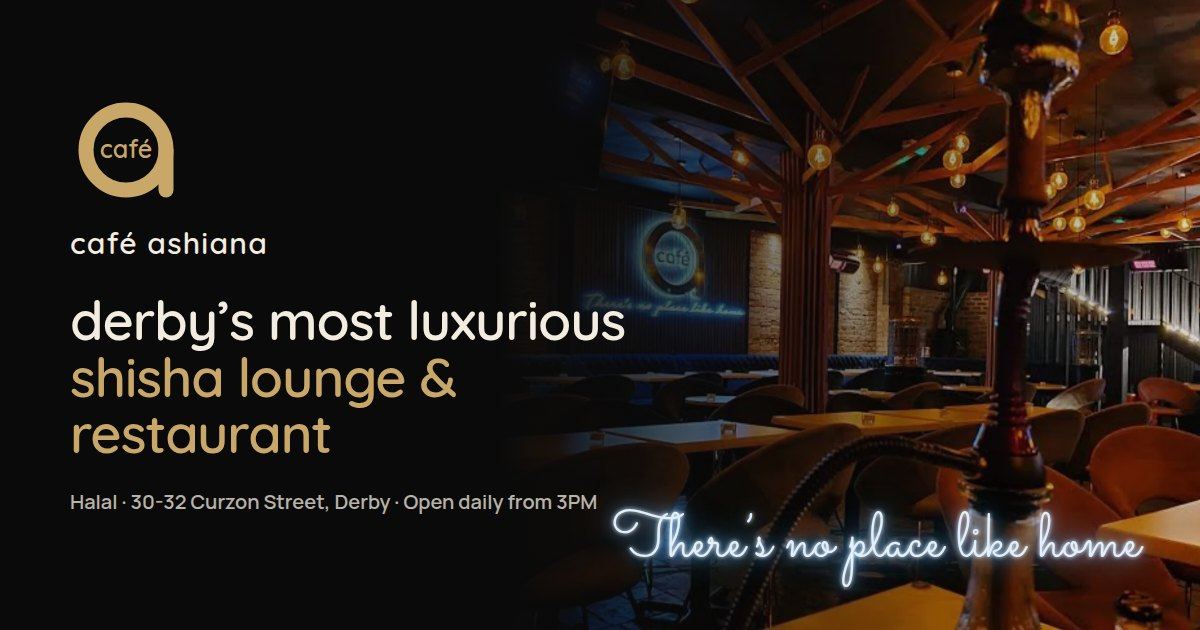
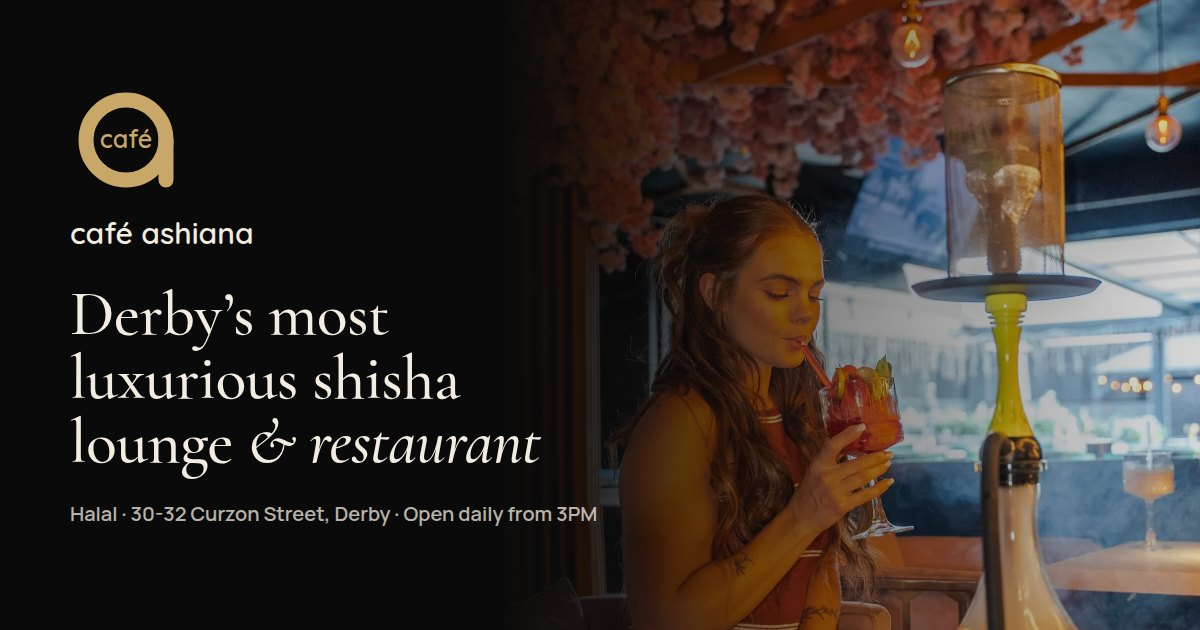
Prave fotografije u punoj rezoluciji, loyalty kartica, Prince of Persia i red velvet, nova slika za dijeljenje

diff --git a/index.html b/index.html
@@ -20,7 +20,7 @@
 <link rel="preload" href="assets/fonts/cormorant-garamond-latin-500-italic.woff2" as="font" type="font/woff2" crossorigin>
 <link rel="preload" href="assets/fonts/manrope-latin-400-normal.woff2" as="font" type="font/woff2" crossorigin>
 <link rel="preload" href="assets/fonts/manrope-latin-600-normal.woff2" as="font" type="font/woff2" crossorigin>
-<link rel="preload" href="assets/img/lounge-tree-1080.webp" as="image" imagesrcset="assets/img/lounge-tree-640.webp 640w, assets/img/lounge-tree-1080.webp 1080w" imagesizes="(min-width: 900px) 50vw, 100vw">
+<link rel="preload" href="assets/img/hero-blossom-1200.webp" as="image" imagesrcset="assets/img/hero-blossom-800.webp 800w, assets/img/hero-blossom-1200.webp 1200w, assets/img/hero-blossom-1600.webp 1600w" imagesizes="(min-width: 900px) 50vw, 100vw">
 <link rel="stylesheet" href="css/style.css">
 <script type="application/ld+json">
 {
@@ -105,7 +105,7 @@
     </div>
   </div>
   <figure class="hero-img">
-    <img src="assets/img/lounge-tree-1080.webp" srcset="assets/img/lounge-tree-640.webp 640w, assets/img/lounge-tree-1080.webp 1080w" sizes="(min-width: 900px) 50vw, 100vw" width="1080" height="950" alt="The main lounge at night: wooden beams branching like a tree, dozens of Edison bulbs, exposed brick and the blue neon café sign" fetchpriority="high">
+    <img src="assets/img/hero-blossom-1200.webp" srcset="assets/img/hero-blossom-800.webp 800w, assets/img/hero-blossom-1200.webp 1200w, assets/img/hero-blossom-1600.webp 1600w" sizes="(min-width: 900px) 50vw, 100vw" width="1200" height="1600" alt="A guest sipping a strawberry mocktail beside a shisha, under the pink blossom ceiling and warm Edison bulbs" fetchpriority="high">
   </figure>
   <dl class="hero-bar">
     <div><dt>Today</dt><dd class="status" data-status><i></i><span>Open daily from 3PM</span></dd></div>
@@ -122,8 +122,8 @@
       <p>Under a canopy of timber and Edison bulbs, with deep blue velvet booths, exposed brick and a ceiling in full blossom, Ashiana is where Derby comes to slow down. A halal kitchen, alcohol-free drinks and shisha made by hand. Upstairs, the rooftop.</p>
     </div>
     <figure class="intro-img">
-      <img src="assets/img/blossom-ceiling-517.webp" width="517" height="355" loading="lazy" decoding="async" alt="Pink blossom ceiling with hanging bulbs above the neon café sign and the words There's no place like home">
-      <figcaption>The blossom room</figcaption>
+      <img src="assets/img/lounge-tree-1080.webp" srcset="assets/img/lounge-tree-640.webp 640w, assets/img/lounge-tree-1080.webp 1080w" sizes="(min-width: 900px) 42vw, 100vw" width="1080" height="950" loading="lazy" decoding="async" alt="The main lounge: wooden beams branching like a tree, Edison bulbs, exposed brick and the blue neon café sign">
+      <figcaption>The canopy room</figcaption>
     </figure>
   </div>
   <figure class="wrap quote" data-quote hidden></figure>
@@ -141,6 +141,11 @@
         <p class="legend"><span><b aria-hidden="true">★</b> Popular</span><span><b aria-hidden="true">V</b> Vegetarian</span><span><b aria-hidden="true">S</b> Spicy</span></p>
       </div>
     </header>
+    <ul class="menu-pics" aria-label="From the kitchen and bar" tabindex="0">
+      <li><img src="assets/img/red-velvet-640.webp" srcset="assets/img/red-velvet-640.webp 640w, assets/img/red-velvet-1080.webp 1080w" sizes="(min-width: 900px) 30vw, 72vw" width="640" height="521" loading="lazy" decoding="async" alt="A tall slice of red velvet cake with cream cheese layers and raspberry"><span>Red velvet cake</span></li>
+      <li><img src="assets/img/mocktail-strawberry-640.webp" srcset="assets/img/mocktail-strawberry-640.webp 640w, assets/img/mocktail-strawberry-1080.webp 1080w" sizes="(min-width: 900px) 30vw, 72vw" width="640" height="853" loading="lazy" decoding="async" alt="A frozen strawberry mocktail with lime, mint and fresh berries"><span>Frozen mocktails</span></li>
+      <li><img src="assets/img/mocktails-duo-640.webp" srcset="assets/img/mocktails-duo-640.webp 640w, assets/img/mocktails-duo-1080.webp 1080w" sizes="(min-width: 900px) 30vw, 72vw" width="640" height="800" loading="lazy" decoding="async" alt="A blue and a berry mocktail with lime, held up against a white wall"><span>Blue &amp; berry</span></li>
+    </ul>
     <div class="menu-grid">
       <nav class="menu-index" aria-label="Menu sections" data-index></nav>
       <div class="menu-main">
@@ -163,11 +168,13 @@
 </section>
 
 <section class="shisha" id="shisha" aria-labelledby="shisha-h">
+  <div class="wrap"><figure class="coals"><img src="assets/img/coals-1407.webp" width="1407" height="603" loading="lazy" decoding="async" alt="Glowing shisha coals in close-up"></figure></div>
   <div class="wrap shisha-grid">
     <div class="shisha-txt">
       <p class="eyebrow eyebrow-blue">Shisha</p>
       <h2 id="shisha-h">Fresh coals, <em>slow evenings</em></h2>
       <p>Every head is packed by hand by our shisha team. Settle into velvet, choose a flavour and let the night take its time.</p>
+<figure class="terrace"><img src="assets/img/prince-of-persia-640.webp" width="640" height="800" loading="lazy" decoding="async" alt="Café Ashiana poster: New summer favourite, Prince of Persia. A shisha on a marble table with the words This flavour really hits the spot"><figcaption>Prince of Persia, our new summer favourite</figcaption></figure>
       <p class="neon">There’s no place like home</p>
       <div class="shisha-legal">
         <p><b>18+</b> Shisha is served to adults only. ID may be requested.</p>
@@ -190,12 +197,12 @@
       <p>A canopy of timber and Edison bulbs, deep blue velvet, exposed brick and a ceiling in full blossom. Click any photo to see it larger.</p>
     </header>
     <div class="mosaic" data-gallery>
+      <figure class="m m-tall"><button type="button" aria-label="View larger: The terrace"><img src="assets/img/terrace-shisha-640.webp" data-full="assets/img/terrace-shisha-1080.webp" width="640" height="800" loading="lazy" decoding="async" alt="A shisha on the terrace at golden hour, with string lights behind"></button><figcaption>The terrace</figcaption></figure>
+      <figure class="m m-tall"><button type="button" aria-label="View larger: Mocktails"><img src="assets/img/mocktails-duo-640.webp" data-full="assets/img/mocktails-duo-1080.webp" width="640" height="800" loading="lazy" decoding="async" alt="A blue and a berry mocktail with lime and paper umbrellas"></button><figcaption>Mocktails</figcaption></figure>
+      <figure class="m m-tall"><button type="button" aria-label="View larger: Behind the bar"><img src="assets/img/crew-barman-348.webp" width="348" height="398" loading="lazy" decoding="async" alt="Bartender in a black waistcoat, white shirt and tie, garnishing a drink"></button><figcaption>Behind the bar</figcaption></figure>
       <figure class="m m-land"><button type="button" aria-label="View larger: Curzon Street after dark"><img src="assets/img/facade-night-517.webp" width="517" height="384" loading="lazy" decoding="async" alt="Café Ashiana at night with warm light in every window"></button><figcaption>Curzon Street after dark</figcaption></figure>
       <figure class="m m-land"><button type="button" aria-label="View larger: Friday night"><img src="assets/img/lounge-crowd-522.webp" width="522" height="267" loading="lazy" decoding="async" alt="A full lounge on a Friday night under the neon ROOFTOP sign"></button><figcaption>Friday night</figcaption></figure>
       <figure class="m m-land"><button type="button" aria-label="View larger: The crew"><img src="assets/img/crew-smile-348.webp" width="348" height="313" loading="lazy" decoding="async" alt="A member of the team in a flat cap and grey waistcoat, laughing behind the bar"></button><figcaption>The crew</figcaption></figure>
-      <figure class="m m-sq"><button type="button" aria-label="View larger: Steak and fries"><img src="assets/img/food-steak-349.webp" width="349" height="398" loading="lazy" decoding="async" alt="Sliced steak with fries in a gold cup, salad and peppercorn sauce"></button><figcaption>Steak &amp; fries</figcaption></figure>
-      <figure class="m m-sq"><button type="button" aria-label="View larger: From the grill"><img src="assets/img/food-chicken-349.webp" width="349" height="313" loading="lazy" decoding="async" alt="Two grilled chicken platters with fries, salad and mocktails on a marble table"></button><figcaption>From the grill</figcaption></figure>
-      <figure class="m m-sq"><button type="button" aria-label="View larger: Mocktails"><img src="assets/img/drink-mocktail-347.webp" width="347" height="313" loading="lazy" decoding="async" alt="A guest holding an orange mocktail in a coupe glass"></button><figcaption>Mocktails</figcaption></figure>
     </div>
   </div>
 </section>
@@ -203,13 +210,25 @@
 <section class="crew" aria-labelledby="crew-h">
   <div class="wrap crew-grid">
     <figure class="crew-img">
-      <img src="assets/img/crew-barman-348.webp" width="348" height="398" loading="lazy" decoding="async" alt="Bartender in a black waistcoat, white shirt and tie, garnishing a drink">
+      <img src="assets/img/shisha-master-640.webp" srcset="assets/img/shisha-master-640.webp 640w, assets/img/shisha-master-1080.webp 1080w" sizes="(min-width: 900px) 38vw, 100vw" width="640" height="800" loading="lazy" decoding="async" alt="A shisha master in a flat cap and herringbone waistcoat, laughing as he lifts the wind cover off a fresh shisha">
     </figure>
     <div class="crew-txt">
       <p class="eyebrow">The crew</p>
       <h2 id="crew-h">Dressed for <em>the occasion</em></h2>
       <p>Waistcoats, flat caps and steady hands. Our shisha masters and bartenders look after you from the first coal to the last cup of chai.</p>
       <a class="link" href="https://www.instagram.com/cafeashiana/" target="_blank" rel="noopener">Follow @cafeashiana<svg aria-hidden="true"><use href="#i-arrow"/></svg></a>
+    </div>
+  </div>
+</section>
+
+<section class="loyal" aria-labelledby="loyal-h">
+  <div class="wrap loyal-grid">
+    <figure class="loyal-img"><img src="assets/img/loyalty-640.webp" srcset="assets/img/loyalty-640.webp 640w, assets/img/loyalty-1080.webp 1080w" sizes="(min-width: 900px) 34vw, 100vw" width="640" height="800" loading="lazy" decoding="async" alt="Café Ashiana poster: Our Loyalty Card is now digital. Your rewards just got an upgrade. rewards.cafeashiana.com"></figure>
+    <div class="loyal-txt">
+      <p class="eyebrow">Rewards</p>
+      <h2 id="loyal-h">Our loyalty card is <em>now digital</em></h2>
+      <p>Your rewards just got an upgrade. Sign up online and keep your Ashiana card on your phone.</p>
+      <a class="btn btn-gold" href="https://rewards.cafeashiana.com" target="_blank" rel="noopener">Get your card</a>
     </div>
   </div>
 </section>

diff --git a/css/style.css b/css/style.css
@@ -108,7 +108,7 @@ section { position: relative; }
 .intro-txt { grid-column: 1 / 7; }
 .intro-txt h2 { margin-bottom: var(--s6); }
 .intro-txt p:last-child { max-width: 34em; color: var(--mute); }
-.intro-img { grid-column: 8 / 13; justify-self: end; max-width: 517px; width: 100%; }
+.intro-img { grid-column: 7 / 13; width: 100%; }
 .intro-img img { width: 100%; aspect-ratio: 3 / 2; object-fit: cover; border-radius: var(--radius); }
 figcaption { margin-top: var(--s3); font: italic 500 17px/1.3 var(--serif); color: var(--faint); }
 .quote { margin-top: var(--s10); padding-top: var(--s8); border-top: 1px solid var(--line); display: grid; grid-template-columns: repeat(12, 1fr); gap: var(--s5); }
@@ -156,8 +156,18 @@ figcaption { margin-top: var(--s3); font: italic 500 17px/1.3 var(--serif); colo
 .menu-foot p { color: var(--mute); font-size: 15px; }
 .is-hidden { display: none !important; }
 
+/* fotografije iznad menija */
+.menu-pics { list-style: none; margin: var(--s7) 0 0; padding: 0; display: grid; grid-template-columns: repeat(3, 1fr); gap: var(--s5); }
+.menu-pics img { width: 100%; aspect-ratio: 4 / 5; object-fit: cover; border-radius: var(--radius); filter: saturate(0.95) contrast(1.03); }
+.menu-pics span { display: block; margin-top: var(--s3); font: italic 500 17px/1.3 var(--serif); color: var(--faint); }
+
 /* ---------- nargila: plavi somot ---------- */
 .shisha { padding: var(--section) 0; background: repeating-linear-gradient(90deg, rgba(255, 255, 255, 0.016) 0 2px, transparent 2px 10px), linear-gradient(165deg, var(--velvet), var(--velvet-2)); }
+.coals { margin-bottom: var(--s9); }
+.coals img { width: 100%; aspect-ratio: 21 / 9; object-fit: cover; border-radius: var(--radius); }
+.terrace { margin-top: var(--s7); max-width: 420px; }
+.terrace img { width: 100%; aspect-ratio: 4 / 5; object-fit: cover; border-radius: var(--radius); }
+.terrace figcaption { color: rgba(243, 236, 224, 0.62); }
 .shisha-grid { display: grid; grid-template-columns: repeat(12, 1fr); gap: var(--s5); align-items: start; }
 .shisha-txt { grid-column: 1 / 6; }
 .shisha-txt h2 { margin-bottom: var(--s6); }
@@ -186,16 +196,26 @@ figcaption { margin-top: var(--s3); font: italic 500 17px/1.3 var(--serif); colo
 .m img { width: 100%; object-fit: cover; filter: saturate(0.9) contrast(1.04); transition: filter var(--dur); }
 .m button:hover img { filter: saturate(1) contrast(1.06) brightness(1.06); }
 .m-land img { aspect-ratio: 3 / 2; }
+.m-tall img { aspect-ratio: 4 / 5; }
 .m-sq img { aspect-ratio: 1 / 1; }
 
 /* ---------- ekipa ---------- */
 .crew { background: var(--warm); padding: var(--section) 0; }
 .crew-grid { display: grid; grid-template-columns: repeat(12, 1fr); gap: var(--s5); align-items: center; }
-.crew-img { grid-column: 2 / 6; max-width: 348px; width: 100%; justify-self: center; }
+.crew-img { grid-column: 1 / 6; width: 100%; }
 .crew-img img { width: 100%; aspect-ratio: 4 / 5; object-fit: cover; border-radius: var(--radius); }
 .crew-txt { grid-column: 7 / 12; }
 .crew-txt h2 { margin-bottom: var(--s6); }
 .crew-txt p:not(.eyebrow) { color: var(--mute); margin-bottom: var(--s6); max-width: 30em; }
+
+/* ---------- loyalty kartica ---------- */
+.loyal { background: var(--velvet-2); padding: var(--section) 0; }
+.loyal-grid { display: grid; grid-template-columns: repeat(12, 1fr); gap: var(--s5); align-items: center; }
+.loyal-img { grid-column: 2 / 6; }
+.loyal-img img { width: 100%; border-radius: var(--radius); }
+.loyal-txt { grid-column: 7 / 12; }
+.loyal-txt h2 { margin-bottom: var(--s6); }
+.loyal-txt p:not(.eyebrow) { color: rgba(243, 236, 224, 0.78); max-width: 28em; margin-bottom: var(--s6); }
 
 /* ---------- posjeta ---------- */
 .visit { padding: var(--section) 0; }
@@ -293,7 +313,7 @@ figcaption { margin-top: var(--s3); font: italic 500 17px/1.3 var(--serif); colo
   .hero-img::after { background: linear-gradient(0deg, var(--black) 0%, rgba(10, 10, 10, 0) 40%); }
   .hero-txt { grid-row: 2; padding: var(--s5) var(--gutter) var(--s7); max-width: none; }
   .hero-bar { grid-row: 3; padding: var(--s6) var(--gutter) var(--s7); max-width: none; }
-  .intro-txt, .intro-img, .menu-head > div:first-child, .menu-tools, .shisha-txt, .flav-card, .crew-img, .crew-txt, .faq-grid h2, .faq-list { grid-column: 1 / -1; }
+  .loyal-img, .loyal-txt, .intro-txt, .intro-img, .menu-head > div:first-child, .menu-tools, .shisha-txt, .flav-card, .crew-img, .crew-txt, .faq-grid h2, .faq-list { grid-column: 1 / -1; }
   .intro-img { justify-self: start; margin-top: var(--s7); }
   .menu-tools { justify-self: start; text-align: left; margin-top: var(--s5); }
   .legend { justify-content: flex-start; }
@@ -305,7 +325,13 @@ figcaption { margin-top: var(--s3); font: italic 500 17px/1.3 var(--serif); colo
   .flav-card { margin-top: var(--s7); padding: var(--s6) var(--s5); }
   .neon { margin: var(--s7) 0; }
   .mosaic { grid-template-columns: 1fr 1fr; }
-  .m-land img, .m-sq img { aspect-ratio: 1 / 1; }
+  .m-land img, .m-sq img, .m-tall img { aspect-ratio: 1 / 1; }
+  .menu-pics { grid-template-columns: none; grid-auto-flow: column; grid-auto-columns: 72%; overflow-x: auto; scroll-snap-type: x mandatory; scrollbar-width: none; margin-right: calc(-1 * var(--gutter)); padding-right: var(--gutter); }
+  .menu-pics::-webkit-scrollbar { display: none; }
+  .menu-pics li { scroll-snap-align: start; }
+  .loyal-img { max-width: 420px; margin-bottom: var(--s7); }
+  .coals { margin-bottom: var(--s8); }
+  .coals img { aspect-ratio: 16 / 9; }
   .crew-img { justify-self: start; margin-bottom: var(--s7); }
   .facade, .visit-cols { grid-column: 1 / -1; }
   .facade { position: relative; top: auto; }

diff --git a/js/app.js b/js/app.js
@@ -85,7 +85,7 @@
   noneEl.addEventListener('click', (e) => { if (e.target.closest('[data-clear]')) { input.value = ''; filter(); input.focus(); } });
 
   /* ---------- okusi nargile ---------- */
-  $('[data-flavours]').innerHTML = FLAV.map((f) => '<li class="flav"><div><b>' + esc(f.name) + '</b><span>' + esc(f.note) + '</span></div>' + (f.fav ? '<em>Guest favourite</em>' : '') + '</li>').join('');
+  $('[data-flavours]').innerHTML = FLAV.map((f) => '<li class="flav"><div><b>' + esc(f.name) + '</b><span>' + esc(f.note) + '</span></div>' + (f.fav ? '<em>' + esc(f.tag || 'Guest favourite') + '</em>' : '') + '</li>').join('');
 
   /* ---------- recenzija i pitanja (samo pravi podaci) ---------- */
   const qEl = $('[data-quote]');
@@ -128,7 +128,7 @@
   /* ---------- uvećanje fotografija ---------- */
   const lb = $('[data-lb]'), lbImg = $('[data-lb-img]'), lbCap = $('[data-lb-cap]');
   const shots = $$('[data-gallery] .m'); let idx = 0, lastFocus = null;
-  const show = (i) => { idx = (i + shots.length) % shots.length; const im = $('img', shots[idx]); lbImg.src = im.currentSrc || im.src; lbImg.alt = im.alt; lbImg.width = im.naturalWidth || im.width; lbCap.textContent = $('figcaption', shots[idx]).textContent; };
+  const show = (i) => { idx = (i + shots.length) % shots.length; const im = $('img', shots[idx]); lbImg.src = im.dataset.full || im.currentSrc || im.src; lbImg.alt = im.alt; lbImg.removeAttribute('width'); lbCap.textContent = $('figcaption', shots[idx]).textContent; };
   const open = (i) => { lastFocus = document.activeElement; show(i); lb.hidden = false; lock(true); $('[data-lb-close]').focus(); };
   const close = () => { lb.hidden = true; lock(false); if (lastFocus) lastFocus.focus(); };
   shots.forEach((m, i) => $('button', m).addEventListener('click', () => open(i)));

diff --git a/data/menu.js b/data/menu.js
@@ -32,6 +32,7 @@ window.ASHIANA_MENU = [
   {
     id: 'desserts', name: 'Desserts & Waffles', note: 'Something sweet to finish.',
     items: [
+      { name: 'Red Velvet Cake', desc: 'Layers of red velvet sponge and cream cheese frosting.', price: null, tags: ['popular'], PRIVREMENO: true },
       { name: 'Oreo Waffle', desc: 'Warm waffle with Oreo crumble and chocolate sauce.', price: null, tags: ['popular'], PRIVREMENO: true }
     ]
   },
@@ -67,8 +68,9 @@ window.ASHIANA_MENU = [
 ];
 
 // okusi nargile za dio "Shisha", kao vinska karta: naziv i kratka nota okusa.
-// Frozen Apple je potvrđen kao omiljeni kod gostiju; ostali okusi i opisi su PRIVREMENO dok vlasnik ne pošalje listu.
+// Prince of Persia je "New summer favourite" sa njihove objave, Frozen Apple je potvrđen kao omiljeni kod gostiju; ostali okusi i opisi su PRIVREMENO dok vlasnik ne pošalje listu.
 window.ASHIANA_SHISHA = [
+  { name: 'Prince of Persia', note: '“This flavour really hits the spot”', fav: true, tag: 'New summer favourite' },
   { name: 'Frozen Apple', note: 'Crisp green apple, icy finish', fav: true },
   { name: 'Double Apple', note: 'Sweet red apple with a hint of aniseed', PRIVREMENO: true },
   { name: 'Grape & Mint', note: 'Dark grape, cool mint', PRIVREMENO: true },

diff --git a/README.md b/README.md
@@ -18,11 +18,13 @@ Provjereno (upisano):
 - [x] cijene sa Uber Eatsa: Dynamite Shrimp £7.95, Nachos £7.95, Masala Fries £5.45, Grilled Halloumi £4.95
 - [x] jela i pića koja se pominju na javnim stranicama (bez cijena): steak i pomfrit, grilana piletina, chicken burger, Oreo waffle, Desi chai, cappuccino, arapski čaj od mente, mojito bez alkohola; nargila Frozen Apple (gosti je hvale)
 - [x] recenzija sa Tripadvisora: "A great vibe, decor is amazing."
+- [x] sa njihovih objava: loyalty kartica je digitalna (rewards.cafeashiana.com), novi okus nargile Prince of Persia ("New summer favourite", "This flavour really hits the spot"), red velvet torta, frozen i obični mocktaili, terasa
+- [x] fotografije u punoj rezoluciji sa njihovih objava: gošća pod cvjetnim plafonom, majstor za nargilu, nargila na terasi, žar, mocktaili, red velvet torta, loyalty i Prince of Persia poster
 
 ### Od vlasnika treba
 - [ ] **puni meni sa cijenama** (sa Instagram highlighta "Food Menu" ili od vlasnika); sad većina stavki ima "ask us" umjesto cijene, a opisi jela su okvirni
 - [ ] **okusi nargile i cijene** (classic i premium); sad je potvrđen samo Frozen Apple, ostali okusi i opisi okusa su okvirni
-- [ ] **fotografije** u dobroj rezoluciji (fasada noću, sala sa sijalicama, neon, plafon sa cvjetovima, rooftop, ekipa, hrana) i **dozvola** da se koriste; sadašnje su isječci sa javnih stranica (Tripadvisor, Facebook, Instagram), samo za demo
+- [ ] **dozvola za fotografije** (nove su sa njihovih objava, a starije sa javnih stranica su manje rezolucije: fasada noću, puna sala, ekipa za šankom); ako imaju fotografije sale i rooftopa u punoj veličini, zamijeniti njih
 - [ ] gdje se puši nargila (terasa, rooftop) i radno vrijeme rooftopa, sezona
 - [ ] tačan link Facebook stranice (sad vodi na pretragu "Cafe Ashiana Derby", u `data/site.js`)
 - [ ] email, ako žele da ga prikažemo
@@ -50,15 +52,19 @@ v2 je redizajn sa fokusom na dizajn, ne na efekte: tamno, toplo i mirno, kao lok
   - neon rukopis (Sacramento) samo jednom, u dijelu Shisha.
 - **Zlatna samo** za logo, glavno dugme, cijene i tanke linije. Uz crnu ide topla tamna (`#14110d`) i plavi somot u dijelu Shisha.
 - **Prvi ekran:** naslov lijevo, fotografija sale desno (nikad šira od svoje rezolucije), traka sa tri podatka: današnji status (živi, London), adresa, halal.
-- **Uvod:** tekst o lokalu, fotografija plafona sa cvjetovima i veliki citat gosta sa Tripadvisora.
+- **Prvi ekran** ima fotografiju gošće pod cvjetnim plafonom sa nargilom (njihova fotografija u punoj rezoluciji).
+- **Uvod:** tekst o lokalu, fotografija sale sa krošnjom i veliki citat gosta sa Tripadvisora.
+- **Iznad menija** tri fotografije: red velvet torta, frozen mocktail, plavi i bobičasti mocktail.
 - **Meni kao u restoranu:**
   - sve kategorije odjednom, sa indeksom sa strane (na mobitelu traka koja se lijepi);
   - pretraga na ikonicu;
   - oznake ★ Popular, V Vegetarian, S Spicy.
   - Stavke bez potvrđene cijene nemaju cijenu; na vrhu piše "Prices on request for items without a price".
-- **Shisha:** lista okusa kao vinska karta (Frozen Apple istaknut), 18+ i upozorenje o nikotinu, statičan neon.
+- **Shisha:** traka sa žarom, poster Prince of Persia, lista okusa kao vinska karta (Prince of Persia i Frozen Apple istaknuti), 18+ i upozorenje o nikotinu, statičan neon.
+- **Rewards:** njihova digitalna loyalty kartica sa dugmetom na rewards.cafeashiana.com.
 - **The lounge:** naslov lijevo, mreža fotografija desno (3:2 i 1:1, na mobitelu sve 1:1), uvećanje na klik (strelice, prevlačenje, Esc).
-- **The crew** i **Visit:**
+- **The crew:** velika fotografija majstora za nargilu u kačketu i prsluku.
+- **Visit:**
   - fotografija fasade (ostaje vidljiva pri skrolu) vodi na Google Maps;
   - pored nje adresa, radno vrijeme sa istaknutim današnjim danom i kontakt.
 - **Pitanja (Good to know):** spremno u `data/site.js` (`faq`), prikazuje se tek kad se upišu odgovori koje je potvrdio vlasnik.
